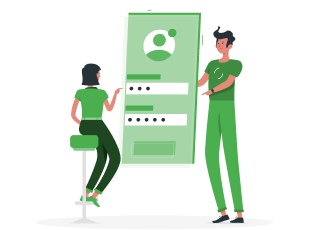
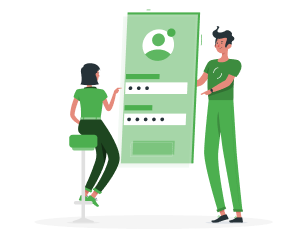
final

diff --git a/src/components/Community.tsx b/src/components/Community.tsx
@@ -82,7 +82,7 @@ const Community = () => {
 
  <div className='flex flex-row justify-center items-center gap-[40px] px-[100.23px] py-[40px]'>
   <img
-    src="/2nd.png"
+    src="/rafiki.png"
     alt=""
     className="object-contain"
   />
